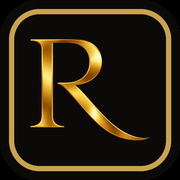
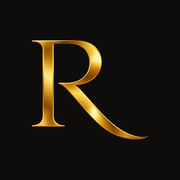
Ícone mais limpo: fundo escuro sem borda e R menor

diff --git a/quiz.html b/quiz.html
@@ -4,9 +4,9 @@
 <meta charset="UTF-8" />
 <meta name="viewport" content="width=device-width, initial-scale=1.0" />
 <title>Descubra sua mancha | Adeus Manchas</title>
-<link rel="icon" href="favicon.png?v=5" type="image/png" sizes="512x512" />
-<link rel="icon" href="favicon-32.png?v=5" sizes="32x32" type="image/png" />
-<link rel="apple-touch-icon" href="apple-touch-icon.png?v=5" />
+<link rel="icon" href="favicon.png?v=6" type="image/png" sizes="512x512" />
+<link rel="icon" href="favicon-32.png?v=6" sizes="32x32" type="image/png" />
+<link rel="apple-touch-icon" href="apple-touch-icon.png?v=6" />
 <meta name="description" content="Responda 7 perguntas rápidas e descubra o que está por trás das suas manchas, e por que elas voltam." />
 <meta property="og:title" content="Descubra qual é a sua mancha" />
 <meta property="og:description" content="Teste rápido, menos de 1 minuto. Por Dra. Rosana Vecchi." />

diff --git a/index.html b/index.html
@@ -4,9 +4,9 @@
 <meta charset="UTF-8" />
 <meta name="viewport" content="width=device-width, initial-scale=1.0" />
 <title>Adeus Manchas | Dra. Rosana Vecchi</title>
-<link rel="icon" href="favicon.png?v=5" type="image/png" sizes="512x512" />
-<link rel="icon" href="favicon-32.png?v=5" sizes="32x32" type="image/png" />
-<link rel="apple-touch-icon" href="apple-touch-icon.png?v=5" />
+<link rel="icon" href="favicon.png?v=6" type="image/png" sizes="512x512" />
+<link rel="icon" href="favicon-32.png?v=6" sizes="32x32" type="image/png" />
+<link rel="apple-touch-icon" href="apple-touch-icon.png?v=6" />
 <meta name="description" content="Assista à aula e entenda por que sua mancha volta todo verão. O protocolo de 90 dias pra clarear melasma e mancha em casa." />
 <link rel="preconnect" href="https://fonts.googleapis.com" />
 <link rel="preconnect" href="https://fonts.gstatic.com" crossorigin />

diff --git a/politica-de-privacidade.html b/politica-de-privacidade.html
@@ -4,9 +4,9 @@
 <meta charset="UTF-8" />
 <meta name="viewport" content="width=device-width, initial-scale=1.0" />
 <title>Política de Privacidade | Adeus Manchas</title>
-<link rel="icon" href="favicon.png?v=5" type="image/png" sizes="512x512" />
-<link rel="icon" href="favicon-32.png?v=5" sizes="32x32" type="image/png" />
-<link rel="apple-touch-icon" href="apple-touch-icon.png?v=5" />
+<link rel="icon" href="favicon.png?v=6" type="image/png" sizes="512x512" />
+<link rel="icon" href="favicon-32.png?v=6" sizes="32x32" type="image/png" />
+<link rel="apple-touch-icon" href="apple-touch-icon.png?v=6" />
 <style>
   :root{--bg:#0c0a09;--line:#2c2620;--gold:#c9a34c;--cream:#ece5d8;--body:#cfc6b7;--dim:#8d8477;
         --sans:-apple-system,BlinkMacSystemFont,"Segoe UI",Roboto,Helvetica,Arial,sans-serif;}

diff --git a/vendas.html b/vendas.html
@@ -4,9 +4,9 @@
 <meta charset="UTF-8" />
 <meta name="viewport" content="width=device-width, initial-scale=1.0" />
 <title>Adeus Manchas | Dra. Rosana Vecchi</title>
-<link rel="icon" href="favicon.png?v=5" type="image/png" sizes="512x512" />
-<link rel="icon" href="favicon-32.png?v=5" sizes="32x32" type="image/png" />
-<link rel="apple-touch-icon" href="apple-touch-icon.png?v=5" />
+<link rel="icon" href="favicon.png?v=6" type="image/png" sizes="512x512" />
+<link rel="icon" href="favicon-32.png?v=6" sizes="32x32" type="image/png" />
+<link rel="apple-touch-icon" href="apple-touch-icon.png?v=6" />
 <meta name="description" content="O protocolo de 90 dias pra clarear melasma e mancha em casa. Sem laser caro, sem peeling agressivo e sem voltar tudo no primeiro verão." />
 <style>
   :root{
